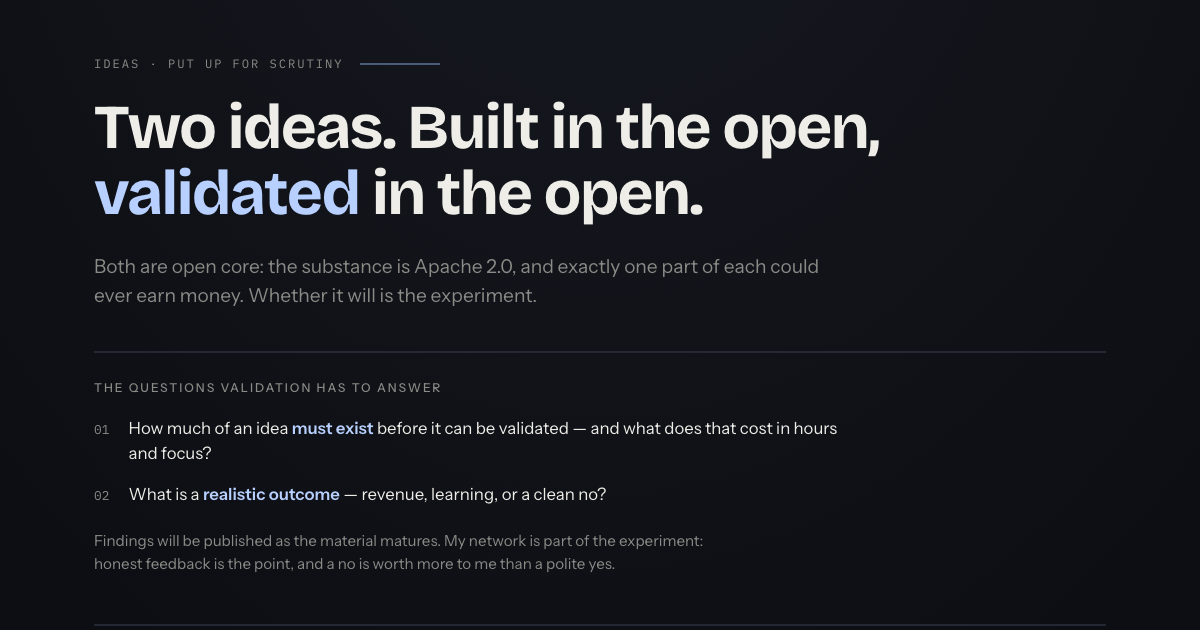
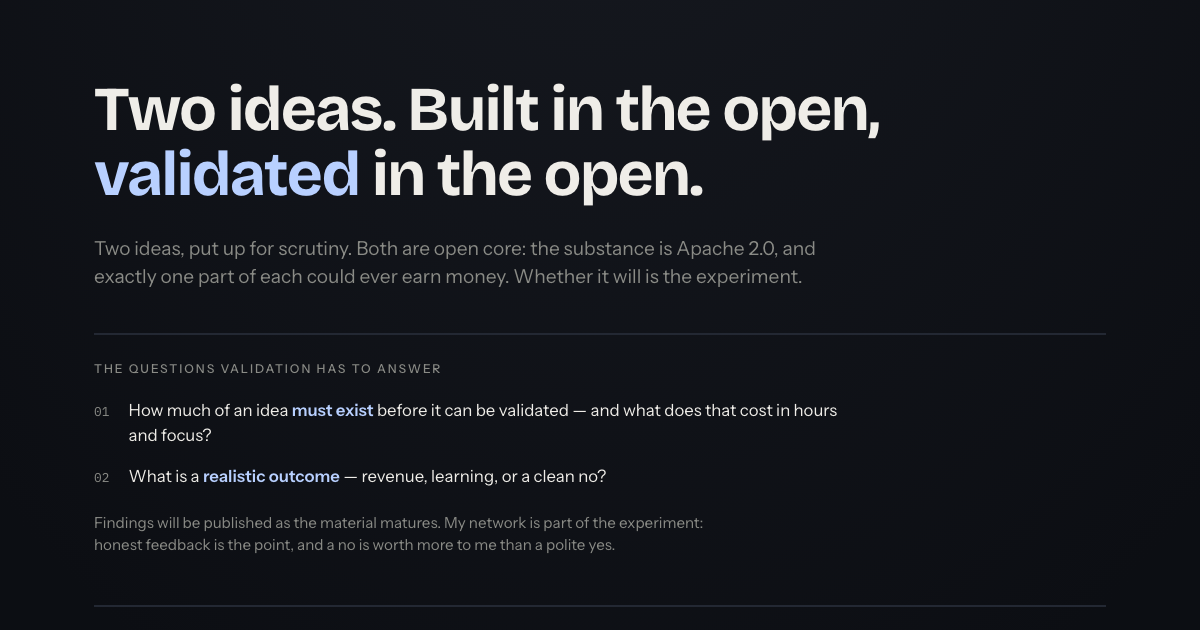
Fold the scrutiny into the lede and drop the eyebrow
/ideas/ opened with a kicker — "Ideas · put up for scrutiny" — above the
headline. No other page on any of the three sites has one, so it read as a
leftover rather than a pattern, and it said in a label what the page can say
in a sentence.

The lede now opens with it, in both languages, which is also how the page's
own meta description has always phrased it:

  Two ideas, put up for scrutiny. Both are open core: …
  Zwei Ideen, zur Prüfung gestellt. Beide sind Open Core: …

`.eyebrow` and `.eyebrow::after` go with it — this page was their only user,
so leaving the rules behind would have left dead CSS on one page.

This is the one card in the site that actually re-rendered: the kicker was
inside the 1200x630 crop.

diff --git a/ideas/index.html b/ideas/index.html
@@ -285,9 +285,6 @@
   nav a[aria-current]{color:var(--c-firm)}
 
   main{flex:1; display:flex; align-items:center; padding:2vh 0 6vh}
-  .eyebrow{font-family:"Plex Mono",monospace; font-size:.76rem; letter-spacing:.16em;
-           text-transform:uppercase; color:var(--dim); display:flex; align-items:center; gap:1rem}
-  .eyebrow::after{content:""; flex:0 0 5rem; height:2px; background:var(--c-mid); opacity:.5}
   h1{font-family:"Bricolage Grotesque", ui-sans-serif, system-ui, sans-serif; font-weight:700;
      line-height:1.05; letter-spacing:-.032em; font-size:clamp(2.1rem,5.2vw,4rem);
      max-width:20ch; margin-top:1.4rem}
@@ -431,9 +428,8 @@
 <main>
   <div class="shell">
 
-    <p class="eyebrow" data-de="Ideen · zur Prüfung gestellt">Ideas · put up for scrutiny</p>
     <h1 data-de="Zwei Ideen. Offen gebaut, offen <em>geprüft</em>.">Two ideas. Built in the open, <em>validated</em> in the open.</h1>
-    <p class="lede" data-de="Beide sind Open Core: die Substanz steht unter Apache 2.0, und genau ein Teil von jeder könnte je Geld verdienen. Ob er es tut, ist das Experiment.">Both are open core: the substance is Apache 2.0, and exactly one part of each could ever earn money. Whether it will is the experiment.</p>
+    <p class="lede" data-de="Zwei Ideen, zur Prüfung gestellt. Beide sind Open Core: die Substanz steht unter Apache 2.0, und genau ein Teil von jeder könnte je Geld verdienen. Ob er es tut, ist das Experiment.">Two ideas, put up for scrutiny. Both are open core: the substance is Apache 2.0, and exactly one part of each could ever earn money. Whether it will is the experiment.</p>
 
     <section class="questions">
       <h2 data-de="Die Fragen, die die Validierung beantworten muss">The questions validation has to answer</h2>
